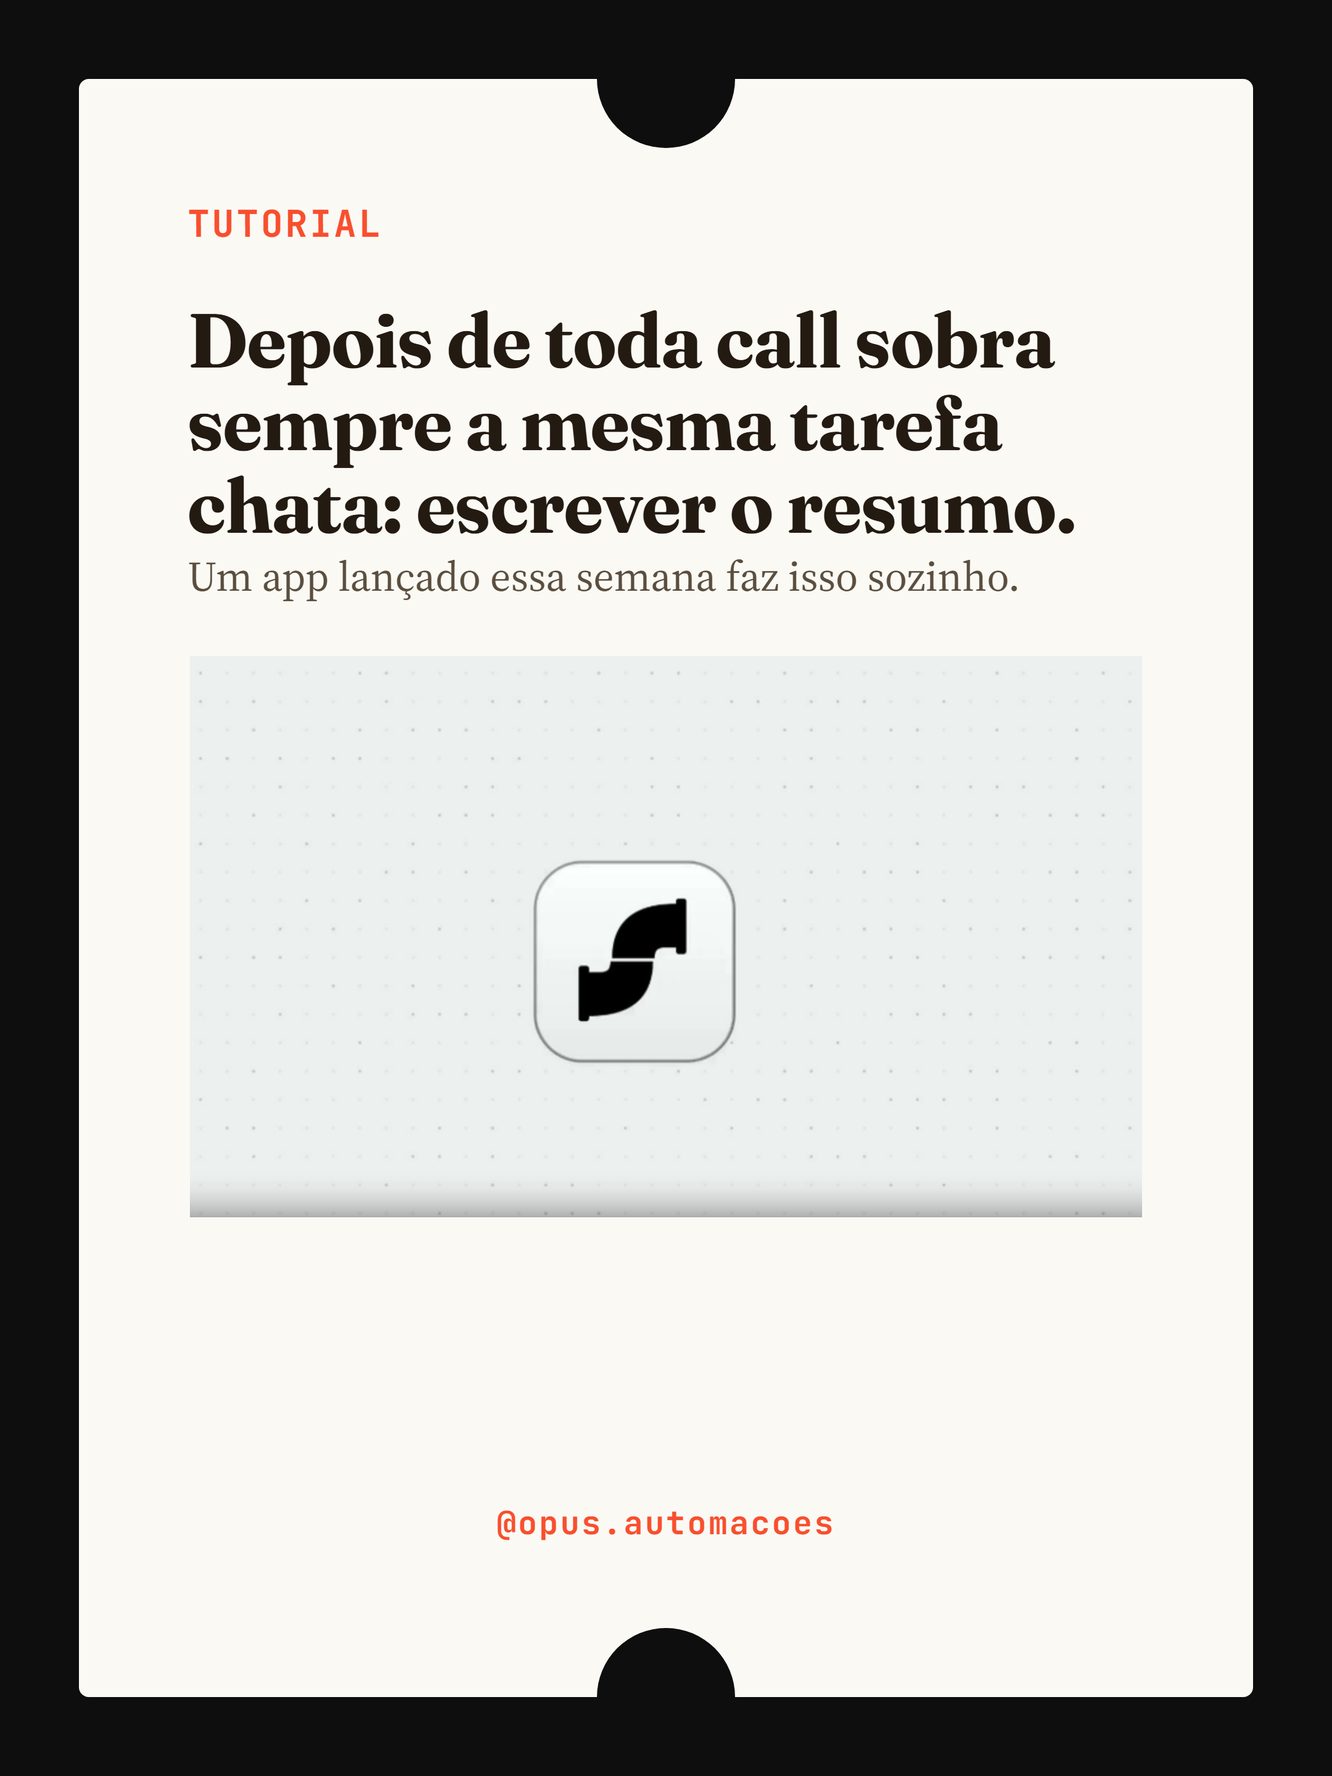
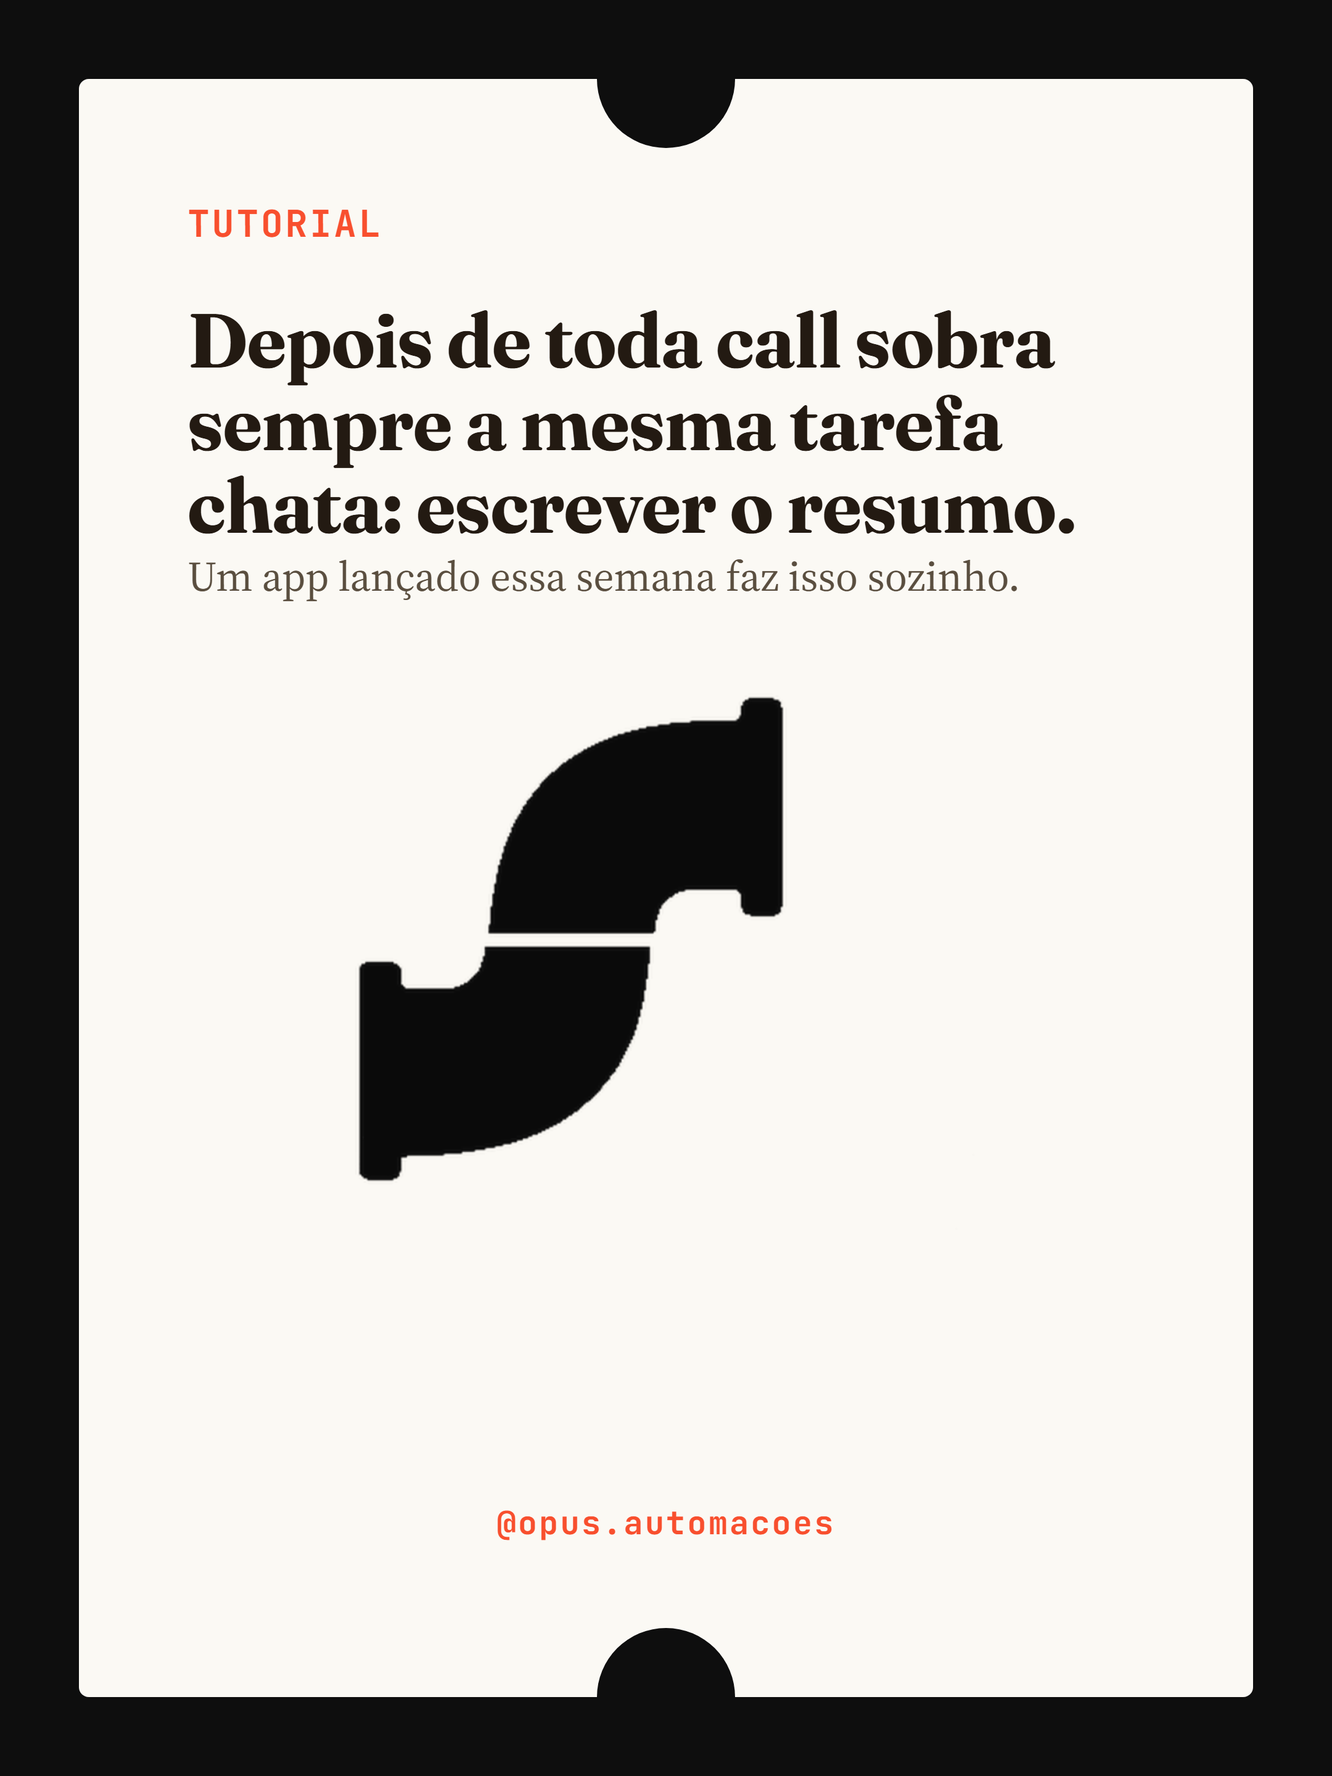
Adiciona carrossel do dia (corretor de imoveis + agente de IA no WhatsApp) e ledger com backfill dos temas de contabilidade das branches cloud
Tema pesquisado e verificado via web_fetch (studiomoob.com); descartei
estatisticas sem atribuicao confiavel encontradas em outras fontes.
Logo do carrossel de 29/07 tambem atualizada (fundo transparente, maior).

Changed region(s): [[0.1241, 0.375, 0.8685, 0.6875]]

diff --git a/Marketing/Conteudo/2026-08-04-corretor-ia-whatsapp-agenda-visita/v1/carrossel.html b/Marketing/Conteudo/2026-08-04-corretor-ia-whatsapp-agenda-visita/v1/carrossel.html
@@ -1,0 +1,85 @@
+<!doctype html>
+<html lang="pt-BR">
+<head>
+<meta charset="utf-8">
+<title>corretor-ia-whatsapp-agenda-visita · carrossel-imagens-tema-tutorial</title>
+<link rel="stylesheet" href="template.css">
+</head>
+<body>
+  <section class="slide arquetipo-capa" id="s1">
+    <div class="card">
+      <p class="tag">TUTORIAL</p>
+      <p class="headline">O corretor não precisa responder todo lead às pressas.</p>
+      <p class="subtitulo">Um agente de IA no WhatsApp faz isso sozinho.</p>
+      <img class="capa-imagem" src="imagens/slide-01-illustration.png" alt="">
+      <p class="handle">@opus.automacoes</p>
+    </div>
+  </section>
+  <section class="slide arquetipo-conteudo" id="s2">
+    <div class="card">
+      <p class="tag">O QUE É</p>
+      <p class="headline">O agente é treinado com o portfólio real da imobiliária.</p>
+      <div class="texto">
+        <p>Os imóveis disponíveis, os valores, as condições de cada um.</p>
+        <p>Quando um lead manda mensagem, ele já responde com informação de verdade, não um script genérico.</p>
+        <p>A ideia apareceu num artigo publicado em junho de 2026 sobre atendimento automatizado no setor imobiliário.</p>
+      </div>
+      <p class="handle">@opus.automacoes</p>
+    </div>
+  </section>
+  <section class="slide arquetipo-conteudo" id="s3">
+    <div class="card">
+      <p class="tag">PASSO 1</p>
+      <p class="headline">Entender o que o lead procura.</p>
+      <div class="texto">
+        <p>Ele pergunta o tipo de imóvel, o número de quartos, o bairro e a faixa de preço, uma pergunta de cada vez, do jeito que uma conversa de WhatsApp normal acontece.</p>
+        <p>Isso já filtra quem tá só curioso de quem tá decidido a alugar ou comprar.</p>
+      </div>
+      <p class="handle">@opus.automacoes</p>
+    </div>
+  </section>
+  <section class="slide arquetipo-conteudo" id="s4">
+    <div class="card">
+      <p class="tag">PASSO 2</p>
+      <p class="headline">Conduzir direto pro agendamento.</p>
+      <div class="texto">
+        <p>Depois que o lead qualifica o que quer, ele pergunta a melhor data e o melhor horário pra uma visita, sem precisar que ninguém do time entre na conversa.</p>
+        <p>O corretor só recebe o aviso quando já existe um compromisso marcado, não uma pergunta solta.</p>
+      </div>
+      <p class="handle">@opus.automacoes</p>
+    </div>
+  </section>
+  <section class="slide arquetipo-conteudo" id="s5">
+    <div class="card">
+      <p class="tag">O QUE MUDA</p>
+      <p class="headline">O corretor entra só quando o interesse é real.</p>
+      <div class="texto">
+        <p>Ele deixa de gastar tempo respondendo a mesma pergunta genérica dez vezes por dia.</p>
+        <p>Quando entra na conversa, o lead já disse o que quer, já escolheu horário, já tá esperando alguém confirmar a visita.</p>
+      </div>
+      <p class="handle">@opus.automacoes</p>
+    </div>
+  </section>
+  <section class="slide arquetipo-conteudo" id="s6">
+    <div class="card">
+      <p class="tag">PRA QUEM SERVE</p>
+      <p class="headline">Corretor autônomo, imobiliária pequena, time enxuto.</p>
+      <div class="texto">
+        <p>Serve pra quem tem pouca gente pra atender WhatsApp o dia inteiro, cobrindo vários imóveis ao mesmo tempo.</p>
+        <p>O agente não substitui o corretor na negociação, só tira da mão dele a parte repetitiva de qualificar e agendar.</p>
+      </div>
+      <p class="handle">@opus.automacoes</p>
+    </div>
+  </section>
+  <section class="slide arquetipo-cta" id="s7">
+    <div class="card">
+      <p class="tag">RESUMO</p>
+      <p class="headline">Salva esse tutorial pra configurar o atendimento da sua imobiliária.</p>
+      <div class="chamada-final">
+        <p>A ideia saiu de um artigo publicado em junho de 2026 sobre IA no WhatsApp pra imobiliárias e corretores.</p>
+      </div>
+      <p class="handle">@opus.automacoes</p>
+    </div>
+  </section>
+</body>
+</html>

diff --git a/Marketing/Conteudo/2026-08-04-corretor-ia-whatsapp-agenda-visita/v1/preview.html b/Marketing/Conteudo/2026-08-04-corretor-ia-whatsapp-agenda-visita/v1/preview.html
@@ -1,0 +1,84 @@
+<!doctype html>
+<html lang="pt-BR">
+<head>
+<meta charset="utf-8">
+<title>carrossel-imagens-tema-tutorial · preview</title>
+<style>
+  body {
+    margin: 0; padding: 32px;
+    background: #0E0E0E;
+    color: #FBF9F4;
+    font-family: 'Source Serif 4', Georgia, serif;
+  }
+  h1 {
+    margin: 0 0 32px;
+    font-family: 'JetBrains Mono', monospace;
+    font-size: 18px;
+    font-weight: 500;
+    letter-spacing: 0.05em;
+    text-transform: uppercase;
+    opacity: 0.7;
+  }
+  .grid {
+    display: grid;
+    grid-template-columns: repeat(auto-fill, minmax(360px, 1fr));
+    gap: 24px;
+  }
+  .slide-card {
+    background: #1a1a1a;
+    border-radius: 16px;
+    overflow: hidden;
+    display: flex;
+    flex-direction: column;
+  }
+  .slide-card img {
+    width: 100%;
+    display: block;
+    aspect-ratio: 3 / 4;
+    object-fit: cover;
+  }
+  .slide-card .label {
+    padding: 12px 16px;
+    font-family: 'JetBrains Mono', monospace;
+    font-size: 14px;
+    letter-spacing: 0.05em;
+    opacity: 0.7;
+  }
+</style>
+</head>
+<body>
+  <h1>carrossel-imagens-tema-tutorial — preview</h1>
+  <div class="grid">
+    <!-- PREVIEW_SLOTS_START -->
+    <div class="slide-card">
+      <img src="slide-01.png" alt="">
+      <div class="label">slide-01.png</div>
+    </div>
+    <div class="slide-card">
+      <img src="slide-02.png" alt="">
+      <div class="label">slide-02.png</div>
+    </div>
+    <div class="slide-card">
+      <img src="slide-03.png" alt="">
+      <div class="label">slide-03.png</div>
+    </div>
+    <div class="slide-card">
+      <img src="slide-04.png" alt="">
+      <div class="label">slide-04.png</div>
+    </div>
+    <div class="slide-card">
+      <img src="slide-05.png" alt="">
+      <div class="label">slide-05.png</div>
+    </div>
+    <div class="slide-card">
+      <img src="slide-06.png" alt="">
+      <div class="label">slide-06.png</div>
+    </div>
+    <div class="slide-card">
+      <img src="slide-07.png" alt="">
+      <div class="label">slide-07.png</div>
+    </div>
+    <!-- PREVIEW_SLOTS_END -->
+  </div>
+</body>
+</html>

diff --git a/Marketing/Conteudo/2026-08-04-corretor-ia-whatsapp-agenda-visita/v1/_export.js b/Marketing/Conteudo/2026-08-04-corretor-ia-whatsapp-agenda-visita/v1/_export.js
@@ -1,0 +1,23 @@
+const { chromium } = require('playwright');
+const path = require('path');
+
+(async () => {
+  const browser = await chromium.launch();
+  const page = await browser.newPage({
+    viewport: { width: 1080, height: 1440 },
+    deviceScaleFactor: 2,
+  });
+  const fileUrl = 'file://' + path.resolve(__dirname, 'carrossel.html').split(path.sep).join('/');
+  await page.goto(fileUrl);
+  await page.waitForLoadState('networkidle');
+  await page.evaluate(() => document.fonts.ready);
+  await page.waitForTimeout(1000);
+  const slides = await page.$$('.slide');
+  if (slides.length === 0) throw new Error('Nenhum .slide encontrado em carrossel.html');
+  for (let i = 0; i < slides.length; i++) {
+    const n = String(i + 1).padStart(2, '0');
+    await slides[i].screenshot({ path: path.join(__dirname, `slide-${n}.png`) });
+    console.log(`Exportado slide-${n}.png`);
+  }
+  await browser.close();
+})().catch(e => { console.error(e); process.exit(1); });

diff --git a/Marketing/Conteudo/2026-08-04-corretor-ia-whatsapp-agenda-visita/v1/template.css b/Marketing/Conteudo/2026-08-04-corretor-ia-whatsapp-agenda-visita/v1/template.css
@@ -212,10 +212,13 @@ em {
 
 .capa-imagem {
   display: block;
-  width: 580px;
-  height: 502px;
-  max-width: 100%;
-  object-fit: contain;
+  width: 100%;
+  max-width: 720px;
+  height: auto;
+  aspect-ratio: 720 / 420;
+  object-fit: cover;
+  border-radius: var(--radius-image);
+  border: 1px solid rgba(35, 26, 18, 0.12);
   margin: var(--space-lg) auto 0;
 }
 

diff --git a/Marketing/Conteudo/2026-08-04-corretor-ia-whatsapp-agenda-visita/roteiro-carrossel-instagram.md b/Marketing/Conteudo/2026-08-04-corretor-ia-whatsapp-agenda-visita/roteiro-carrossel-instagram.md
@@ -1,0 +1,69 @@
+---
+carrossel: corretor-ia-whatsapp-agenda-visita
+data: 2026-08-04
+autor: Opus Automações (YOLO, via pesquisa-tutorial-carrossel)
+---
+
+## Decisões automáticas
+
+- **Arquétipo:** Tutorial (método = sequência de passos do fluxo do agente, do primeiro contato até o agendamento). Não é "como configurar" (a fonte não detalha implementação), é "como o fluxo funciona passo a passo" — ajuste feito por falta de material de setup na fonte.
+- **Objetivo:** Salvar (recebido do orquestrador).
+- **Fonte usada:** [studiomoob.com — IA no WhatsApp para imobiliárias](https://studiomoob.com/blog/ia-whatsapp-imobiliarias-corretores/), publicado 21/06/2026, lida via web_fetch.
+- **Eixos pulados por falta de material (não inventados):**
+  - Caso real com números de conversão específicos — pulado. Um resumo de busca tinha citado "imobiliária de São Paulo, 3% pra 8%", mas o `web_fetch` na fonte real confirmou que **esse dado não existe no artigo**. Descartado por completo, não usado em lugar nenhum.
+  - Estatísticas de resposta rápida (ex.: "interesse cai 70% após 10 minutos", "WhatsApp tem 95-98% de taxa de abertura") — pulado. Aparecem noutro artigo (fonada.com) mas **sem nenhuma fonte/estudo citado** ali mesmo. Risco alto de serem número de marketing sem lastro; não usei.
+  - Passos de configuração/integração com CRM — pulado. A fonte não detalha isso, só descreve o comportamento do agente.
+- **Fidelidade à fonte:** os 4 fatos usados (treinado no portfólio real; qualifica por tipo/quartos/bairro/preço; agenda perguntando data e horário; só chama o corretor quando o interesse é real) vêm todos literalmente do texto lido.
+
+---
+
+## Slide 01 [capa]
+
+O corretor não precisa responder todo lead às pressas. Um agente de IA no WhatsApp da imobiliária faz a conversa andar sozinha até a visita estar marcada.
+
+[contagem: 27 palavras]
+
+## Slide 02 [re-hook]
+
+O agente é treinado com o portfólio real da imobiliária: os imóveis disponíveis, os valores, as condições de cada um. Quando um lead manda mensagem, ele já responde com informação de verdade, não um script genérico. A ideia apareceu num artigo publicado em junho de 2026 sobre atendimento automatizado no setor imobiliário.
+
+[contagem: 52 palavras]
+
+## Slide 03 [passo 1: qualificação]
+
+O primeiro trabalho do agente é entender o que o lead procura. Ele pergunta o tipo de imóvel, o número de quartos, o bairro e a faixa de preço, uma pergunta de cada vez, do jeito que uma conversa de WhatsApp normal acontece. Isso já filtra quem tá só curioso de quem tá decidido a alugar ou comprar.
+
+[contagem: 58 palavras]
+
+## Slide 04 [passo 2: agendamento]
+
+Depois que o lead qualifica o que quer, o agente conduz direto pro agendamento. Ele pergunta a melhor data e o melhor horário pra uma visita, sem precisar que ninguém do time entre na conversa. O corretor só recebe o aviso quando já existe um compromisso marcado, não uma pergunta solta.
+
+[contagem: 51 palavras]
+
+## Slide 05 [pattern break: o que muda pro corretor]
+
+O corretor deixa de gastar tempo respondendo a mesma pergunta genérica dez vezes por dia. Ele entra na conversa só quando o lead já mostrou interesse real: já disse o que quer, já escolheu horário, já tá esperando alguém confirmar a visita.
+
+[contagem: 42 palavras]
+
+## Slide 06 [pra quem serve]
+
+Isso serve pra quem tem pouca gente pra atender WhatsApp o dia inteiro: corretor autônomo, imobiliária pequena, time de duas ou três pessoas cobrindo vários imóveis ao mesmo tempo. O agente não substitui o corretor na negociação, só tira da mão dele a parte repetitiva de qualificar e agendar.
+
+[contagem: 49 palavras]
+
+## Slide 07 [cta]
+
+Salva esse tutorial pra quando for configurar o atendimento automático da sua imobiliária. A ideia saiu de um artigo publicado em junho de 2026 sobre IA no WhatsApp pra imobiliárias e corretores.
+
+[contagem: 32 palavras]
+
+---
+
+## Diagnóstico (Fase 6)
+
+- B1 (Humanizador, 19 padrões anti-IA): ✅ passou — sem em-dash, sem clichê, sem meta-comentário, frases completas.
+- B2 (Densidade de palavras): ✅ passou — miolo (slides 3-6) entre 42 e 58 palavras; capa 27, CTA 32, ambas com substância.
+- B3 (Fidelidade à fonte externa): ✅ passou — 4 fatos centrais (qualificação, agendamento, handoff, treinamento no portfólio) todos confirmados literalmente na fonte via web_fetch; dois números de outras fontes descartados por falta de atribuição confiável.
+- Qualidade: 9/10 — conteúdo concreto e verificado; não chegou a 10 por não ter um caso real numérico pra ancorar o pattern break (descartado de propósito por não ser confiável, não por preguiça).

diff --git a/Marketing/Conteudo/2026-08-04-corretor-ia-whatsapp-agenda-visita/roteiro.md b/Marketing/Conteudo/2026-08-04-corretor-ia-whatsapp-agenda-visita/roteiro.md
@@ -1,0 +1,60 @@
+---
+carrossel: corretor-ia-whatsapp-agenda-visita
+template: carrossel-imagens-tema-tutorial
+data: 2026-08-04
+autor: Opus Automações (YOLO, via pesquisa-tutorial-carrossel)
+---
+
+## Slide 01
+
+arquetipo: capa
+tag: TUTORIAL
+titulo: O corretor não precisa responder todo lead às pressas.
+bloco_destaque: Um agente de IA no WhatsApp faz isso sozinho.
+
+## Slide 02
+
+arquetipo: conteudo
+tag: O QUE É
+titulo: O agente é treinado com o portfólio real da imobiliária.
+texto: Os imóveis disponíveis, os valores, as condições de cada um. Quando um lead manda mensagem, ele já responde com informação de verdade, não um script genérico. A ideia apareceu num artigo publicado em junho de 2026 sobre atendimento automatizado no setor imobiliário.
+
+## Slide 03
+
+arquetipo: conteudo
+tag: PASSO 1
+titulo: Entender o que o lead procura.
+texto: Ele pergunta o tipo de imóvel, o número de quartos, o bairro e a faixa de preço, uma pergunta de cada vez, do jeito que uma conversa de WhatsApp normal acontece. Isso já filtra quem tá só curioso de quem tá decidido a alugar ou comprar.
+
+## Slide 04
+
+arquetipo: conteudo
+tag: PASSO 2
+titulo: Conduzir direto pro agendamento.
+texto: Depois que o lead qualifica o que quer, ele pergunta a melhor data e o melhor horário pra uma visita, sem precisar que ninguém do time entre na conversa. O corretor só recebe o aviso quando já existe um compromisso marcado, não uma pergunta solta.
+
+## Slide 05
+
+arquetipo: conteudo
+tag: O QUE MUDA
+titulo: O corretor entra só quando o interesse é real.
+texto: Ele deixa de gastar tempo respondendo a mesma pergunta genérica dez vezes por dia. Quando entra na conversa, o lead já disse o que quer, já escolheu horário, já tá esperando alguém confirmar a visita.
+
+## Slide 06
+
+arquetipo: conteudo
+tag: PRA QUEM SERVE
+titulo: Corretor autônomo, imobiliária pequena, time enxuto.
+texto: Serve pra quem tem pouca gente pra atender WhatsApp o dia inteiro, cobrindo vários imóveis ao mesmo tempo. O agente não substitui o corretor na negociação, só tira da mão dele a parte repetitiva de qualificar e agendar.
+
+## Slide 07
+
+arquetipo: cta
+tag: RESUMO
+titulo: Salva esse tutorial pra configurar o atendimento da sua imobiliária.
+chamada_final: A ideia saiu de um artigo publicado em junho de 2026 sobre IA no WhatsApp pra imobiliárias e corretores.
+cta_url: "@opus.automacoes"
+
+## Notas de tradução (rastreabilidade)
+
+Tradução do `roteiro-carrossel-instagram.md` (mesma pasta) pro schema fixo da `carrossel-imagens-tema-tutorial`. Nenhuma frase nova, só reorganização em `tag`/`titulo`/`texto`. Tags PASSO 1/PASSO 2 refletem o fluxo real do agente (qualificar → agendar); os demais slides usam kicker descritivo porque não são passos de configuração, são contexto/resultado/público-alvo.

diff --git a/.claude/skills/pesquisa-tutorial-carrossel/historico-temas.md b/.claude/skills/pesquisa-tutorial-carrossel/historico-temas.md
@@ -5,3 +5,7 @@ Ledger dos temas já escolhidos, usado pra dedup dos últimos 14 dias. Cada entr
 ---
 
 - **2026-07-29** — "Grave sua tela uma vez, deixe a IA repetir a tarefa sozinha" (Screenpipe) — bucket: Educativo — setor: produtores de conteúdo / consultores e freelancers de serviço — fonte: https://screenpipe.com + https://news.ycombinator.com/item?id=49024620 — slug: `2026-07-29-tela-gravada-vira-agente-ia`
+- **2026-08-03** — "Extração de NFS-e com IA + n8n" — bucket: Educativo — setor: contabilidade — fonte: https://structura.com.br/integracao/nfs-e-nota-fiscal-de-servico/n8n — slug: `2026-08-03-contabilidade-nfse-ia-n8n` *(registrado no repo por outra branch da rotina cloud, backfill manual)*
+- **2026-08-04** — "Robô que lê a nota fiscal por e-mail e sugere o lançamento contábil" (n8n+OCR+IA) — bucket: Tutorial — setor: contabilidade — fonte: horadecodar.com.br (múltiplos artigos) + robertodiasduarte.com.br — slug: `2026-08-04-nota-fiscal-automatica-n8n-contabilidade` *(registrado no repo por outra branch da rotina cloud, backfill manual)*
+- **2026-08-04** — "A IA que lê o extrato bancário sozinha" (conciliação, Nibo) — bucket: Tutorial — setor: contabilidade — fonte: https://ajuda.nibo.com.br/pt-BR/articles/11648734-leitura-de-extrato-bancario-em-pdf-com-ia — slug: `2026-08-04-conciliacao-bancaria-ia-contabilidade` *(registrado no repo por outra branch da rotina cloud, backfill manual)*
+- **2026-08-04** — "O corretor só entra quando o lead já tá pronto pra fechar" (agente de IA no WhatsApp qualifica lead e agenda visita) — bucket: Educativo/Tutorial — setor: imobiliárias pequenas / corretores autônomos — fonte: https://studiomoob.com/blog/ia-whatsapp-imobiliarias-corretores/ (21/06/2026) — slug: `2026-08-04-corretor-ia-whatsapp-agenda-visita`

diff --git a/Marketing/Conteudo/2026-08-04-corretor-ia-whatsapp-agenda-visita/legenda.md b/Marketing/Conteudo/2026-08-04-corretor-ia-whatsapp-agenda-visita/legenda.md
@@ -1,0 +1,11 @@
+Enquanto o corretor dorme, o lead já marcou a visita sozinho com um agente de IA.
+
+Um agente de IA conectado ao WhatsApp da imobiliária conversa com quem chega perguntando sobre imóvel: descobre o que a pessoa procura, checa o portfólio real da imobiliária e já parte pro agendamento de visita. O corretor só entra quando o interesse já é de verdade, com data e horário praticamente fechados.
+
+Funciona bem pra quem tem pouca gente cobrindo o WhatsApp: corretor autônomo, imobiliária pequena, time enxuto tentando dar conta de vários imóveis ao mesmo tempo.
+
+A ideia saiu de um artigo publicado em junho de 2026 sobre atendimento automatizado no setor imobiliário.
+
+Salva esse carrossel pra configurar isso na sua imobiliária. Segue @opus.automacoes pra mais automações assim.
+
+#automacaoparapequenosnegocios #imobiliaria #corretordeimoveis #inteligenciaartificial #whatsappbusiness
